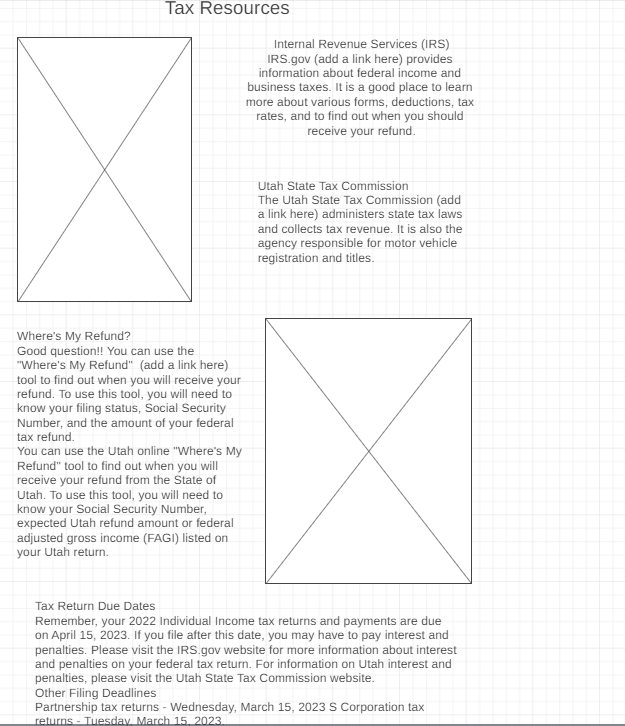
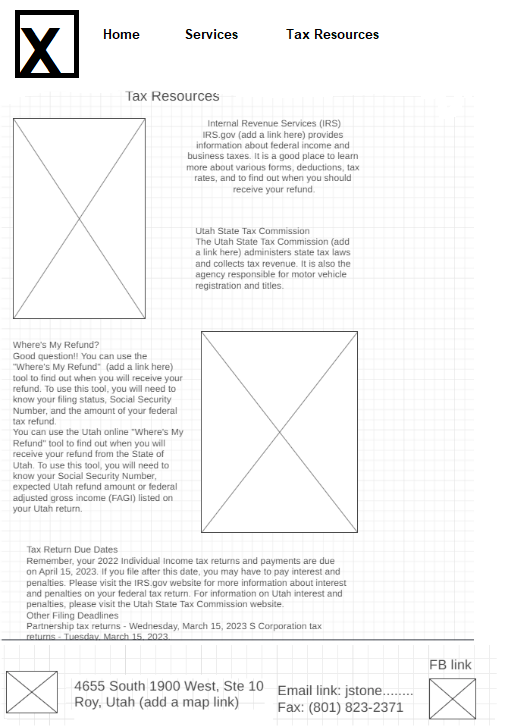
Sending final changes for class...i think...haha

diff --git a/stoneandco/taxresources.html b/stoneandco/taxresources.html
@@ -59,23 +59,22 @@
             </div>
         </div>
     </div>
-<footer>
-    <a href="site-plan.html">Site Plan</a>
-    <a href="index.html">
-        <img class="logo" src="images/logo.png" alt="Stone & Company logo">
-    </a>
-    <div class ="google-map">
-       <a href="https://goo.gl/maps/nxGecQ7jUEjkeEYM8" target="_blank">Stone & Company<br> 4655 S 1900 W Ste 10<br>
-        Roy, Utah </a>
-    </div>
-    <p><a href="contactus.html">Contact Us</a></p>
-    <a href="mailto:admin@jstonecpa.com">Email us at admin@jstonecpa.com</a>
-    <p>Fax: 801-823-2371</p>
-    <div class="social">
-        <a href="https://www.facebook.com/profile.php?id=100057608132582" target="https://www.facebook.com/profile.php?id=100057608132582">
-            <img src="images/facebook.png" alt="fb icon">
+    <footer>
+        <a href="site-plan.html">Site Plan</a>
+        <a class="logo_link" href="index.html">
+            <img class="logo" src="images/logo.png" alt="Stone & Company logo">
         </a>
-    </div>
-</footer>
+        <div class ="google-map">
+            <a href="https://goo.gl/maps/nxGecQ7jUEjkeEYM8" target="blank">4655 S 1900 W Ste 10 Roy, Utah </a>
+        </div>
+        <a href="contactus.html">Contact Us</a>
+        <a href="mailto:admin@jstonecpa.com">Email us at admin@jstonecpa.com</a>
+        Fax: 801-823-2371
+        <div class="social">
+            <a href="https://www.facebook.com/profile.php?id=100057608132582" target="https://www.facebook.com/profile.php?id=100057608132582">
+                <img src="images/facebook.png" alt="fb icon">
+            </a>
+        </div>
+    </footer>
 </body>
 </html>

diff --git a/stoneandco/site-plan.html b/stoneandco/site-plan.html
@@ -45,13 +45,13 @@
       <!--  The colors you choose for a website are one of the most important decisions you will make. Follow the instructions on the activity in iLearn then return and replace the color codes below with the hex color codes (the 6 digit numbers that show at the bottom of each color) for the colors you have chosen below.  You should have at least 2 colors but do not have to fill in all 4 if you do not need them.  -->
 
       <!-- Copy and paste the URL to your finished palette below Make sure to paste it into both spots -->
-      Palette URL: <a href="https://coolors.co/palette/8c1c13-495867-6b7683-B1B0B1" target="_blank">https://coolors.co/palette/8c1c13-495867-6b7683-B1B0B1</a>
+      Palette URL: <a href="https://coolors.co/palette/8c1c13-495867-6b7683-dee0e3" target="_blank">https://coolors.co/palette/8c1c13-495867-6b7683-dee0e3</a>
 
 
       <table class="colors">
         <tr><th>Primary</th><th>Secondary</th><th>Accent 1</th><th>Accent 2</th></tr>
         <!-- Replace the numbers in the boxes below with your hex color codes. Then switch to the site-plan.css file and change your colors there as well. -->
-        <tr><td class="primary">[#6B7683]</td><td class="secondary">[#B1B0B1]</td><td class="accent1">[#8B0000]</td><td class="accent2">[#495867]</td></tr>
+        <tr><td class="primary">[#6B7683]</td><td class="secondary">[#dee0e3]</td><td class="accent1">[#8B0000]</td><td class="accent2">[#495867]</td></tr>
       </table>
 
       <!-- ------------------------Step 9------------------------------ -->

diff --git a/stoneandco/services.html b/stoneandco/services.html
@@ -58,15 +58,15 @@
 </div>
 <footer>
     <a href="site-plan.html">Site Plan</a>
-    <a href="index.html">
+    <a class="logo_link" href="index.html">
         <img class="logo" src="images/logo.png" alt="Stone & Company logo">
     </a>
     <div class ="google-map">
-        <a href="https://goo.gl/maps/nxGecQ7jUEjkeEYM8" target="_blank">Stone & Company<br>4655 S 1900 W Ste 10<br>Roy, Utah </a>
+        <a href="https://goo.gl/maps/nxGecQ7jUEjkeEYM8" target="blank">4655 S 1900 W Ste 10 Roy, Utah </a>
     </div>
-    <p><a href="contactus.html">Contact Us</a></p>
+    <a href="contactus.html">Contact Us</a>
     <a href="mailto:admin@jstonecpa.com">Email us at admin@jstonecpa.com</a>
-    <p>Fax: 801-823-2371</p>
+    Fax: 801-823-2371
     <div class="social">
         <a href="https://www.facebook.com/profile.php?id=100057608132582" target="https://www.facebook.com/profile.php?id=100057608132582">
             <img src="images/facebook.png" alt="fb icon">

diff --git a/stoneandco/styles/style.css b/stoneandco/styles/style.css
@@ -19,7 +19,7 @@ header{
     background-color: #6B7683;
     opacity: 0.8;
     font-size: 3vw;
-    font-family: Noto Sans, 'Lucinda Sans';
+    font-family: "Noto Sans", 'Lucinda Sans';
 }
 .hero{
     font-size:3vw;
@@ -196,17 +196,18 @@ p, dl{
   }
 
 footer{
-    background-color: #B1B0B1;
+    background-color: #6B7683;
+    opacity: 0.8;
     padding: 5px 5px;
     margin-top: 25px;
     display:flex;
     justify-content: space-around;
     align-items: center;
-    font-family: Noto Sans, 'Lucida Sans';
-    font-weight: 600;
+    font-family: "Noto Sans", 'Lucida Sans';
+    font-weight: 500;
 }
 footer a{
-    color:#23297a;
+    color: #dee0e3;
     text-decoration:none;
     padding: 10px; 
     text-align: left;

diff --git a/stoneandco/styles/site-plan.css b/stoneandco/styles/site-plan.css
@@ -6,7 +6,7 @@ Fonts are separated by a | */
 :root {
   /* change the values below to your colors from your palette */
   --primary-color: #6B7683   ;
-  --secondary-color: #B1B0B1 ;
+  --secondary-color: dee0e3 ;
   --accent1-color: #8C1C13;
   --accent2-color: #495867;
 
